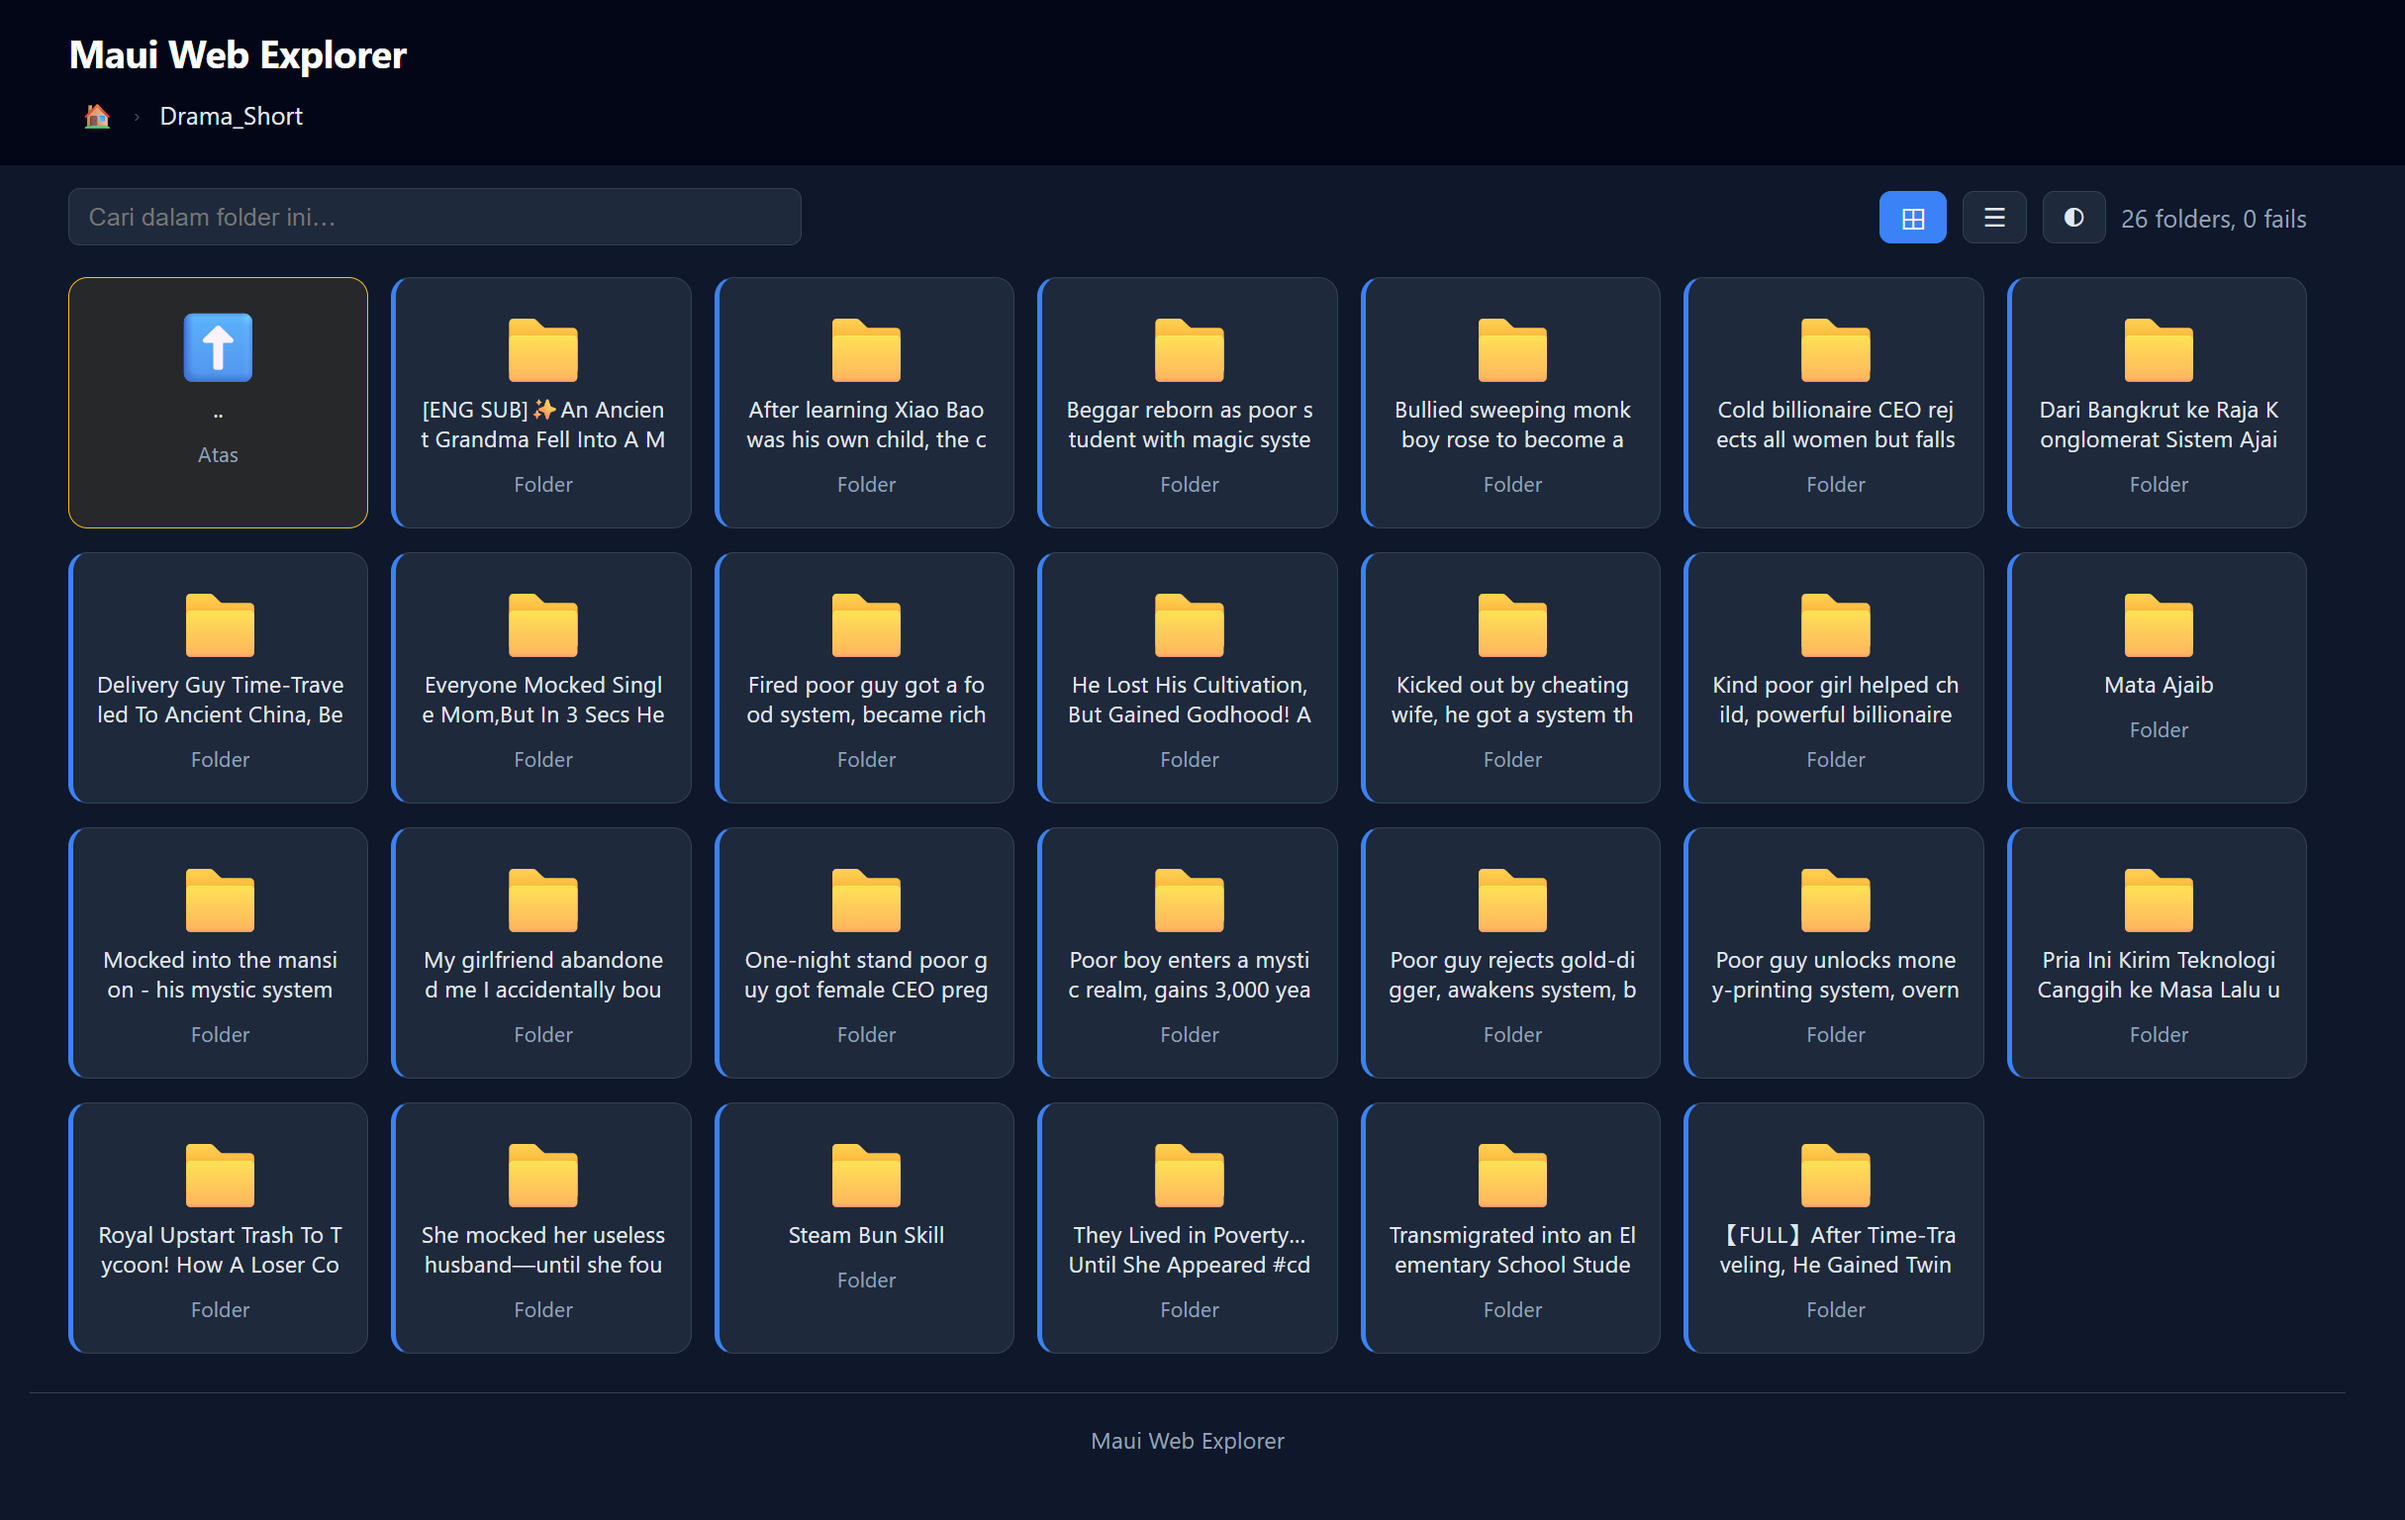
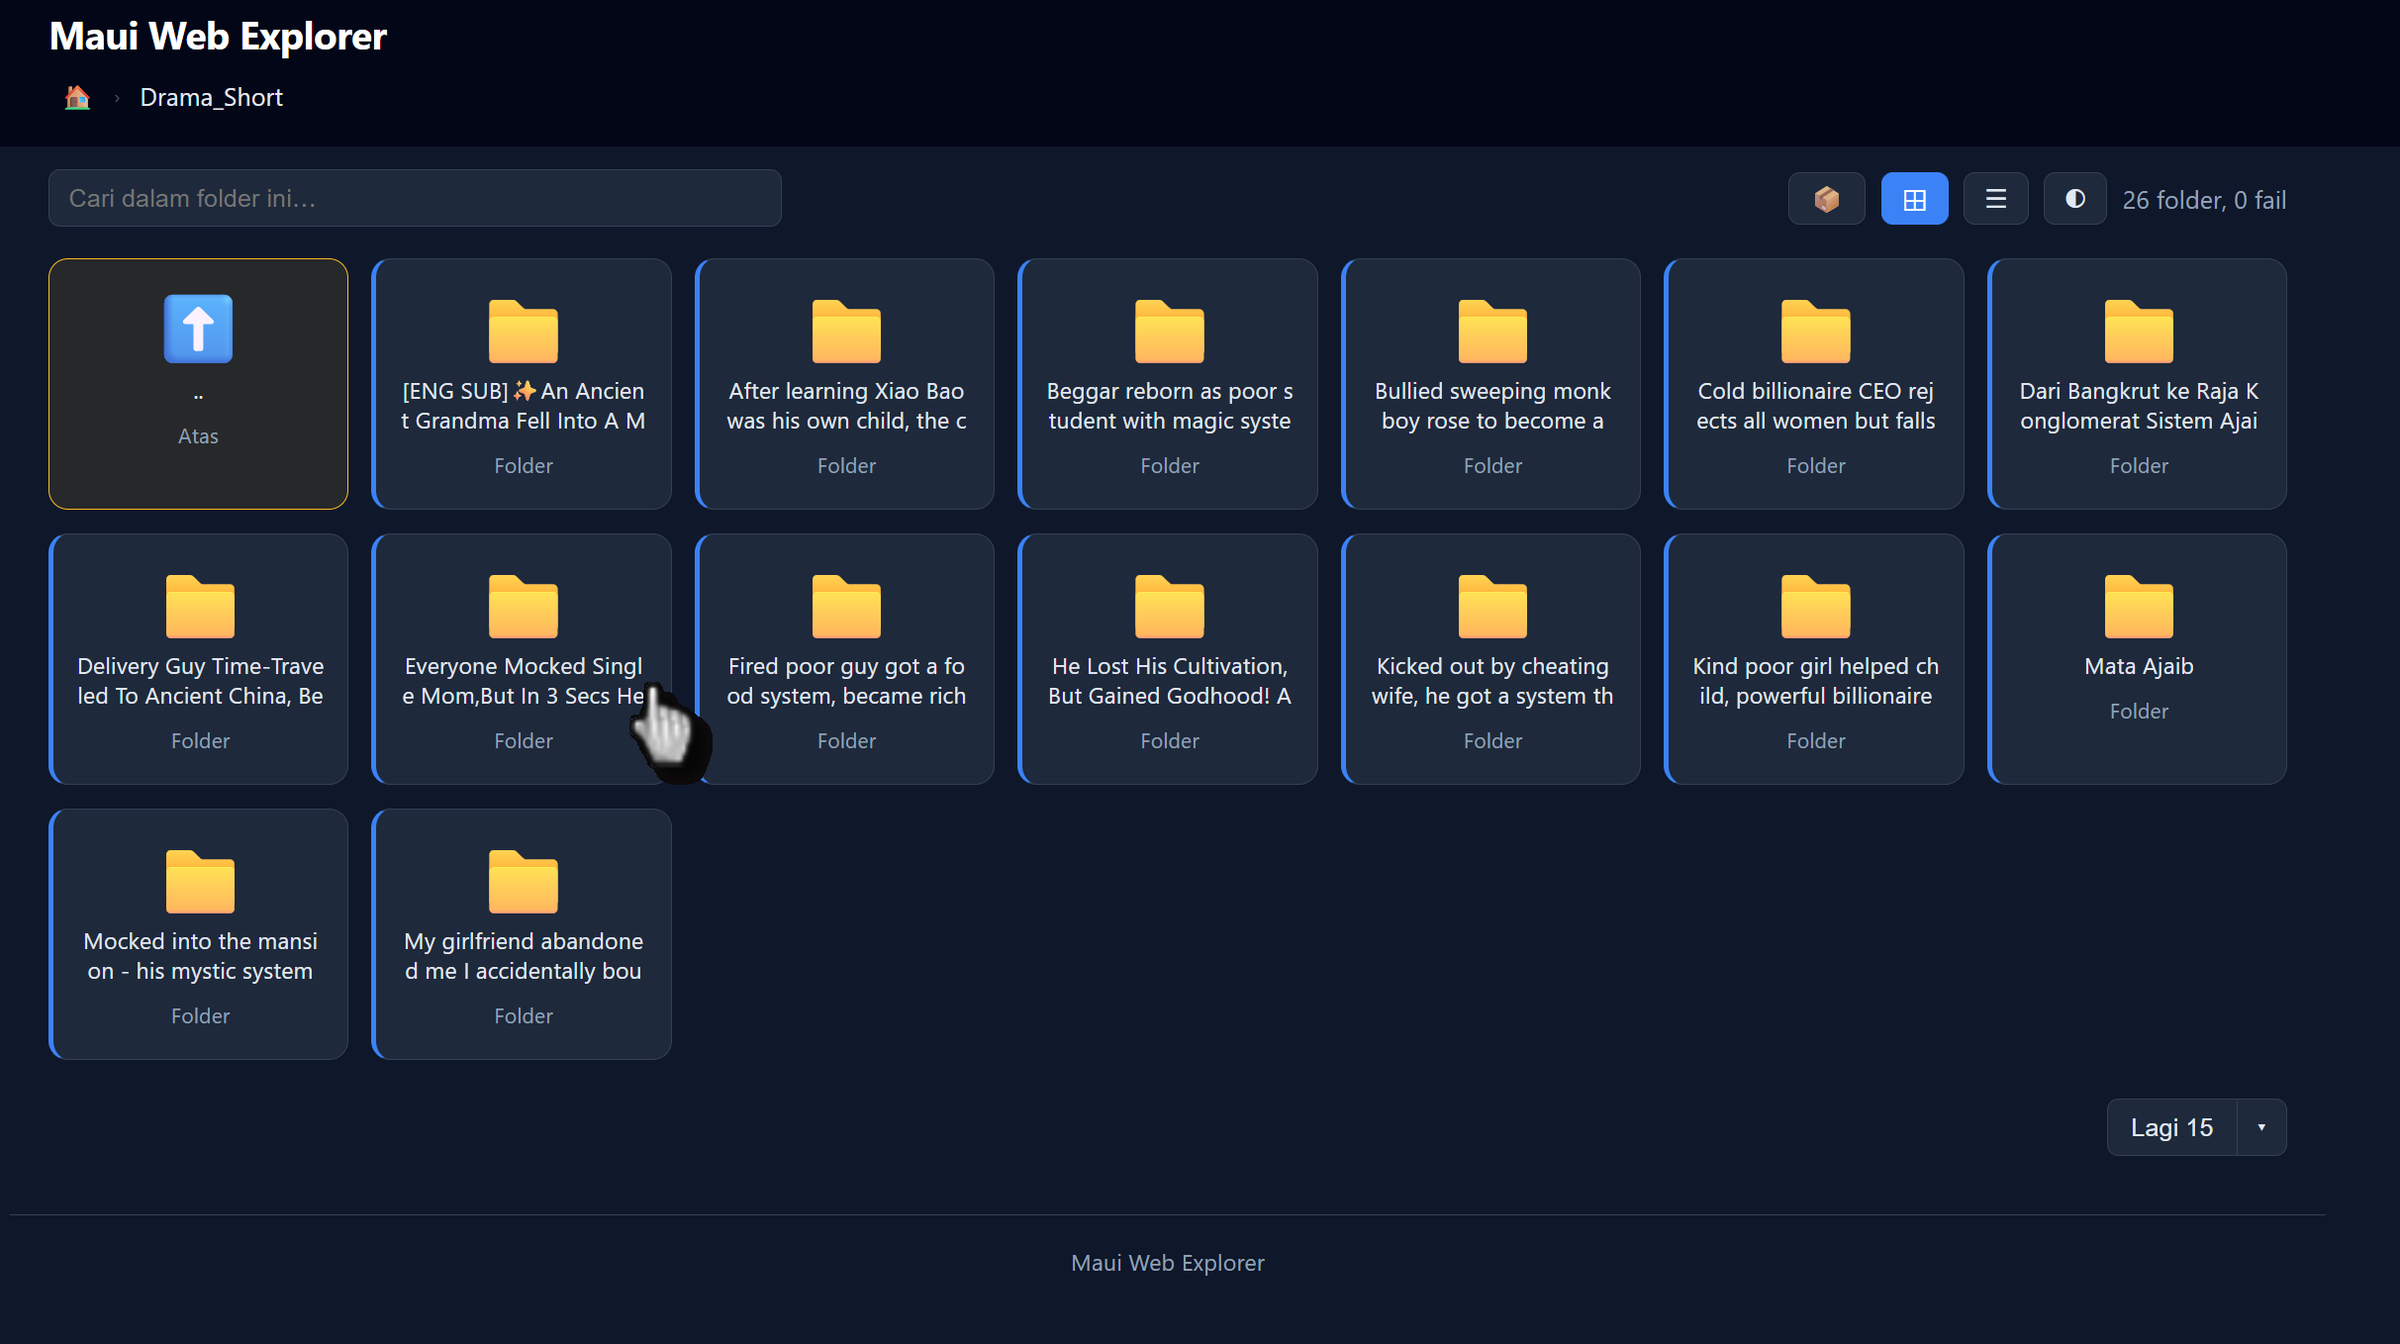
Tambah screenshot light theme (001a), kemaskini README dan screenshot subfolder

diff --git a/README.md b/README.md
@@ -99,6 +99,12 @@ The root directory rendered as a card grid. The toolbar carries the folder searc
 
 Inside a subfolder. The breadcrumb shows the current path, the first card is the parent ("up") shortcut, and the grid lays out the folder contents. The same toolbar (search, view toggle, theme toggle) stays in place.
 
+### Grid view, root folder (light theme)
+
+<img src="Screenshots/001a.png" alt="Maui Web Explorer in the light theme showing the same root folder grid with folders Drama, Drama_Short, Movies and Movies_Santai on a light background, plus the search box, view toggle and theme toggle in the toolbar">
+
+The same root folder with the theme flipped to light. The toolbar's theme toggle switches between dark and light; the choice is saved in the browser (localStorage) and follows the system preference on first load. The card grid, search box, view toggle, and live folder and file counts all carry over unchanged.
+
 ---
 
 ## Requirements
